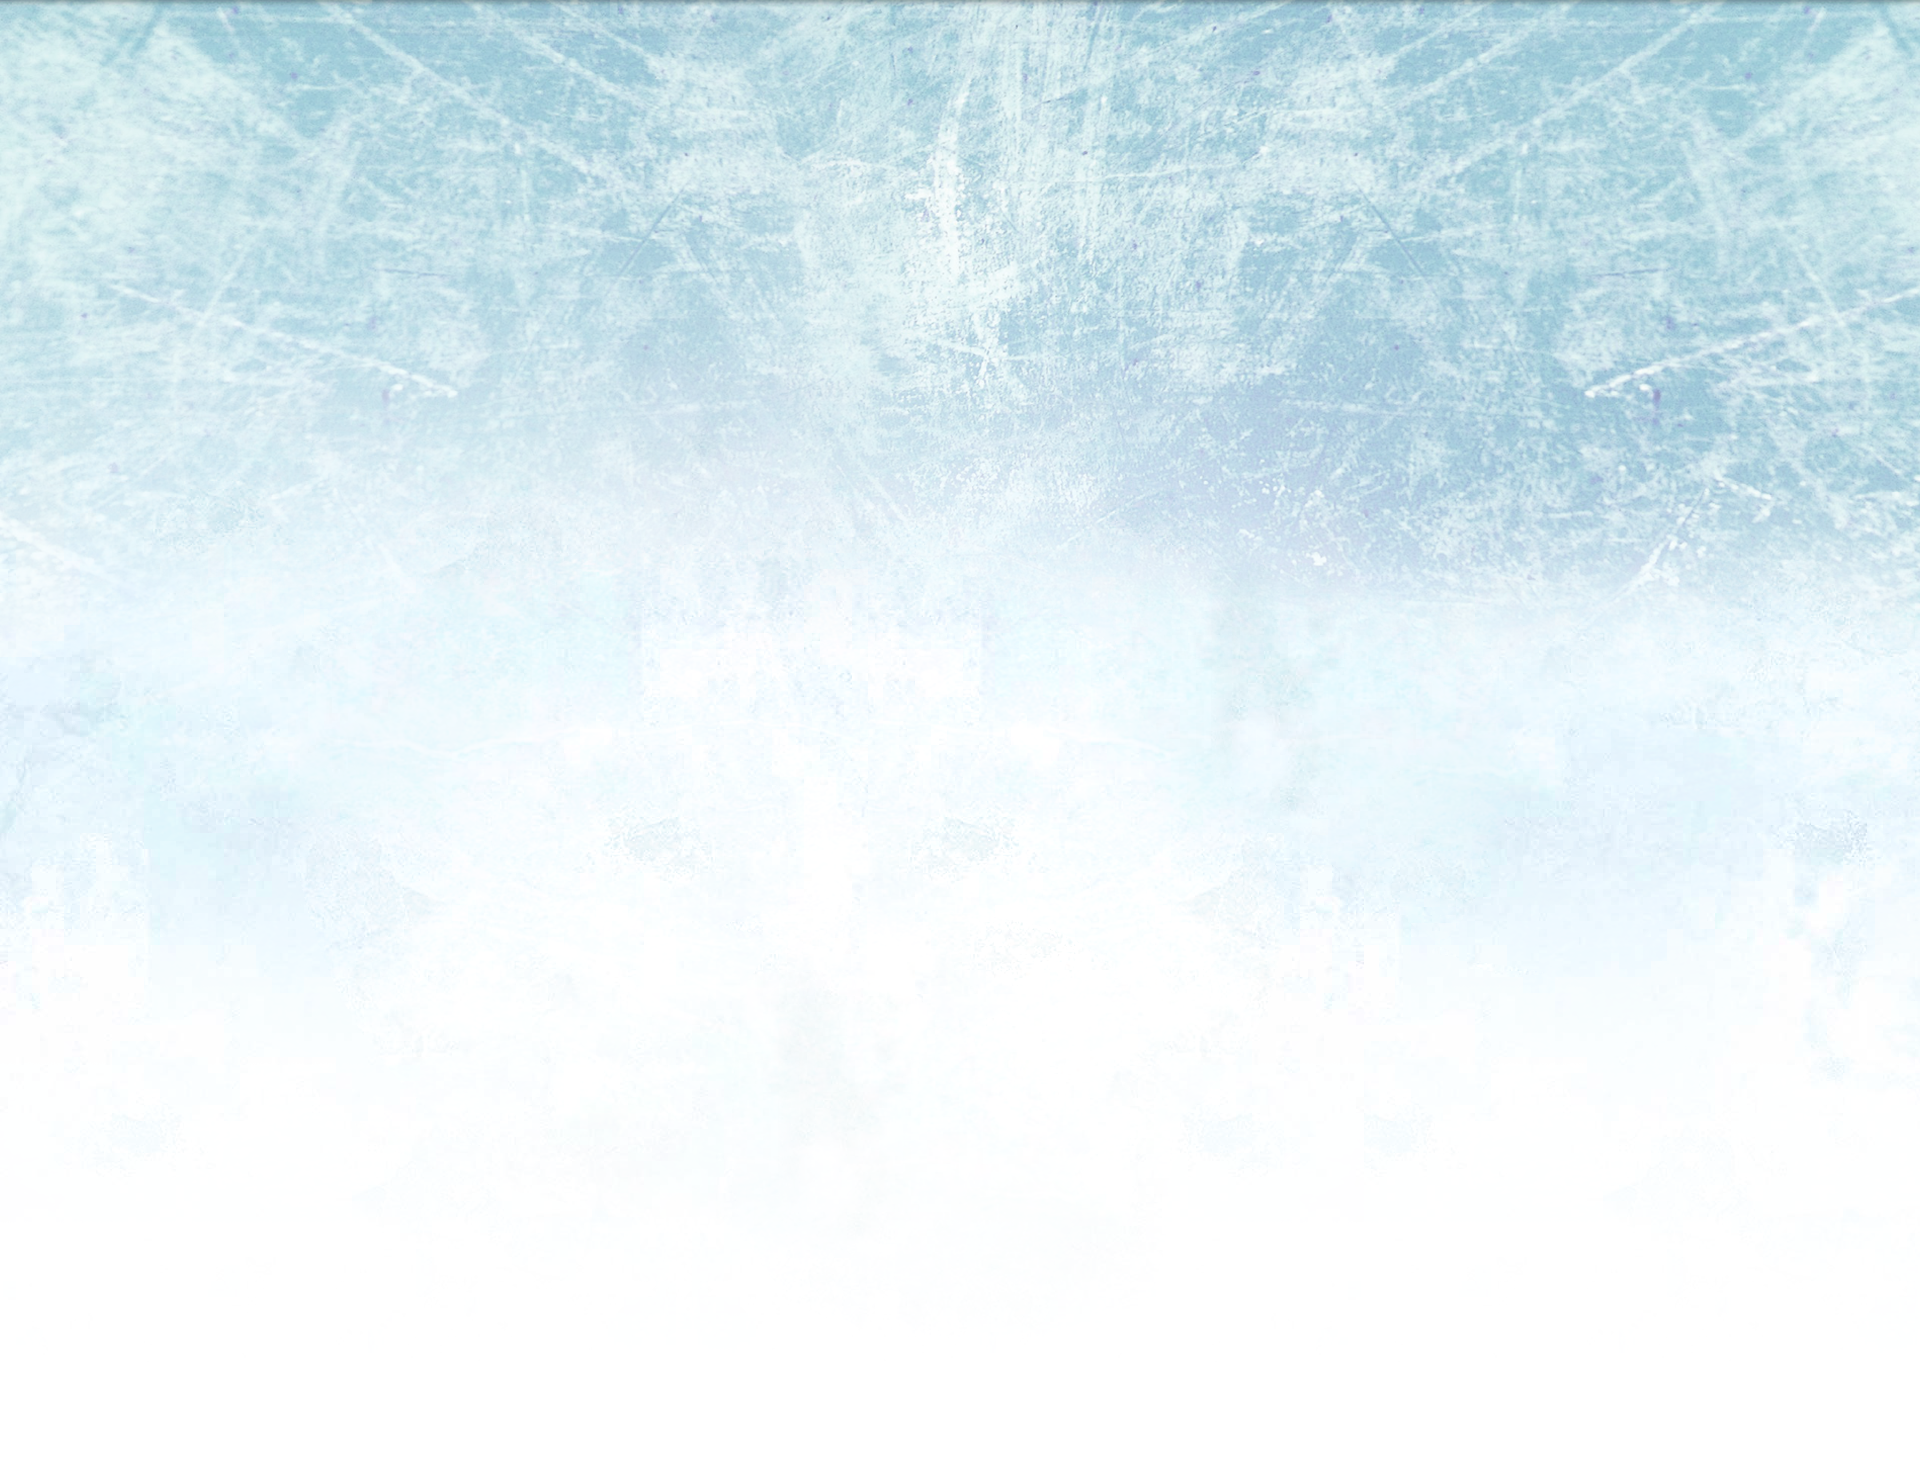
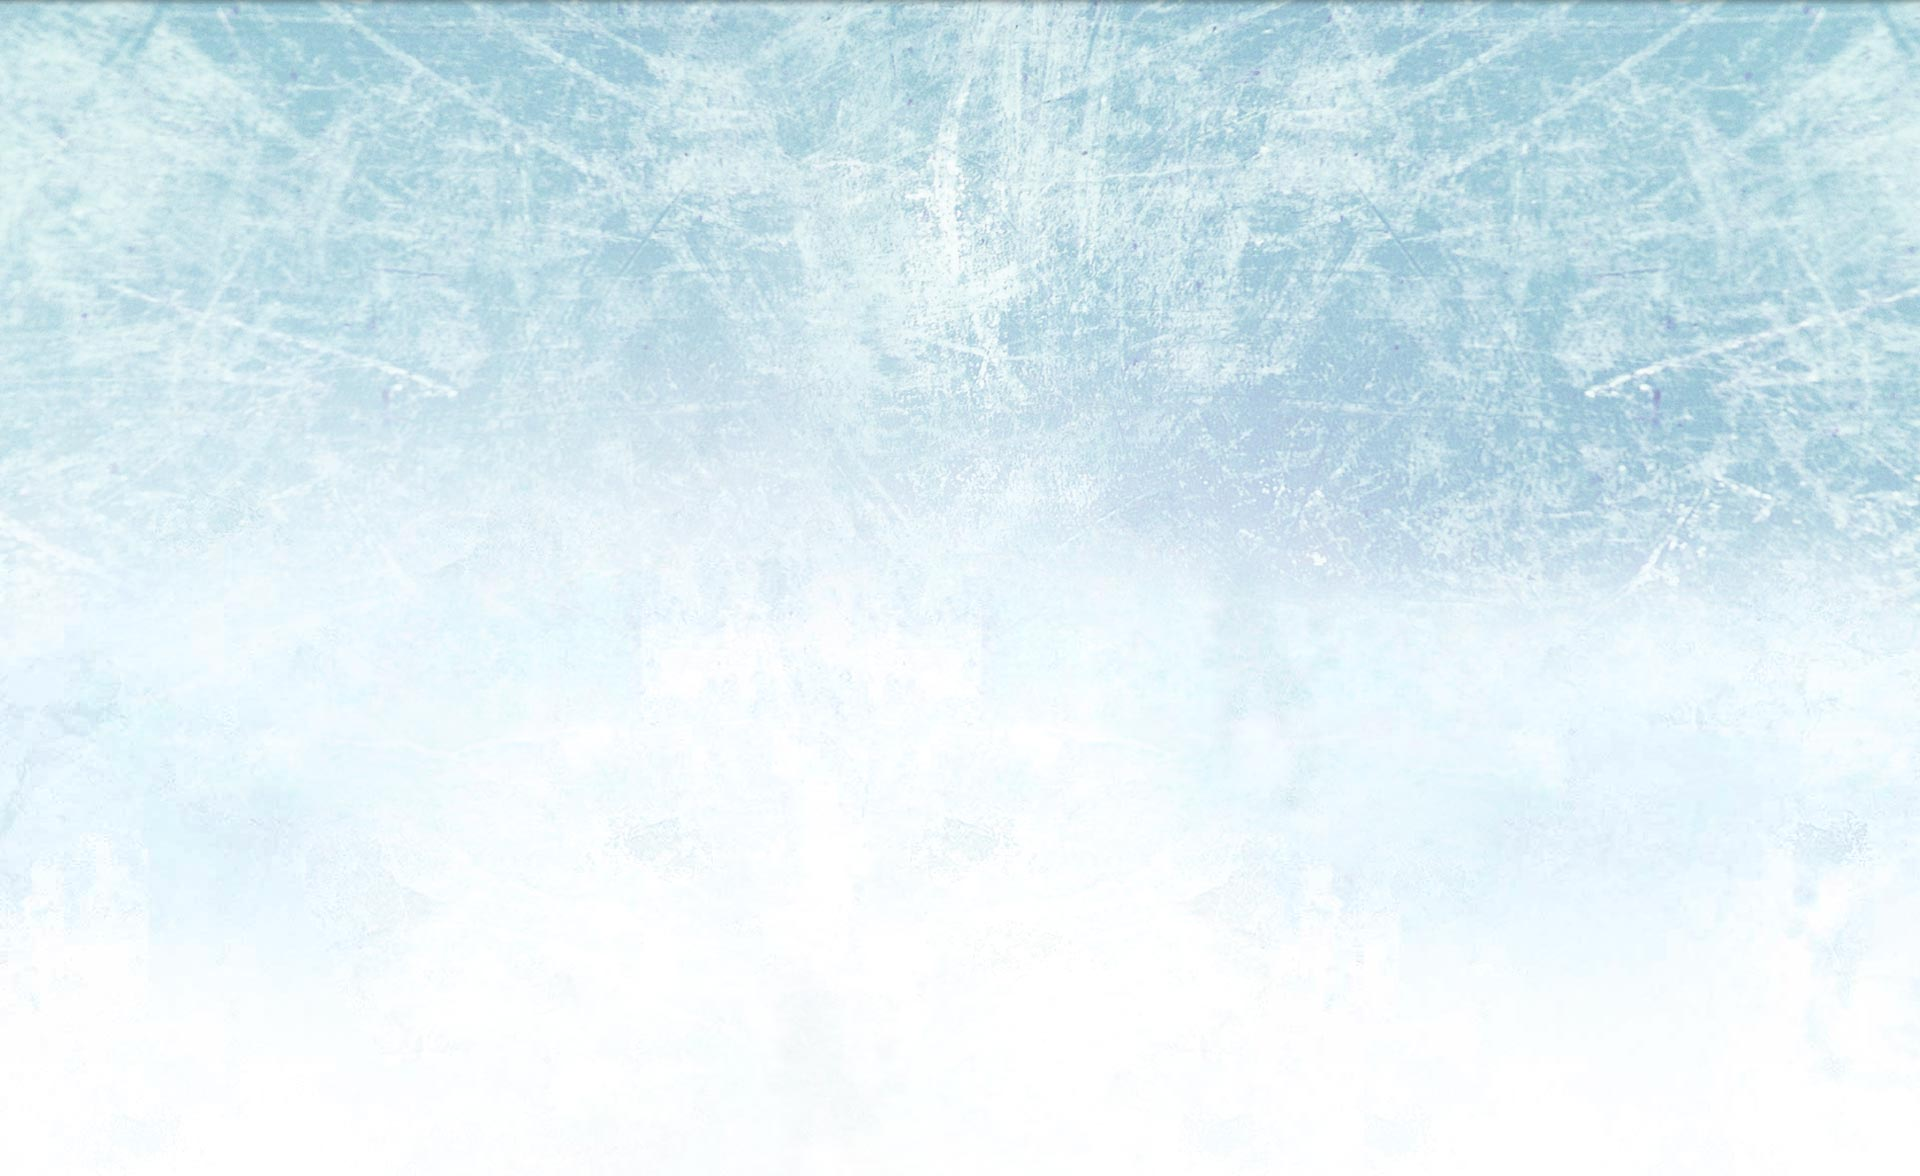
compress images

diff --git a/prode.php b/prode.php
@@ -45,7 +45,7 @@ $prode = new Prode($user); // TODO - Refactor
         </div>
     </div>
     <div class="header">
-        <img height="auto" width="100%" src="img/header.png">
+        <img height="auto" width="100%" src="img/header.jpg">
     </div>
     <div class="container prode">
         <div class="row tabs-container">
